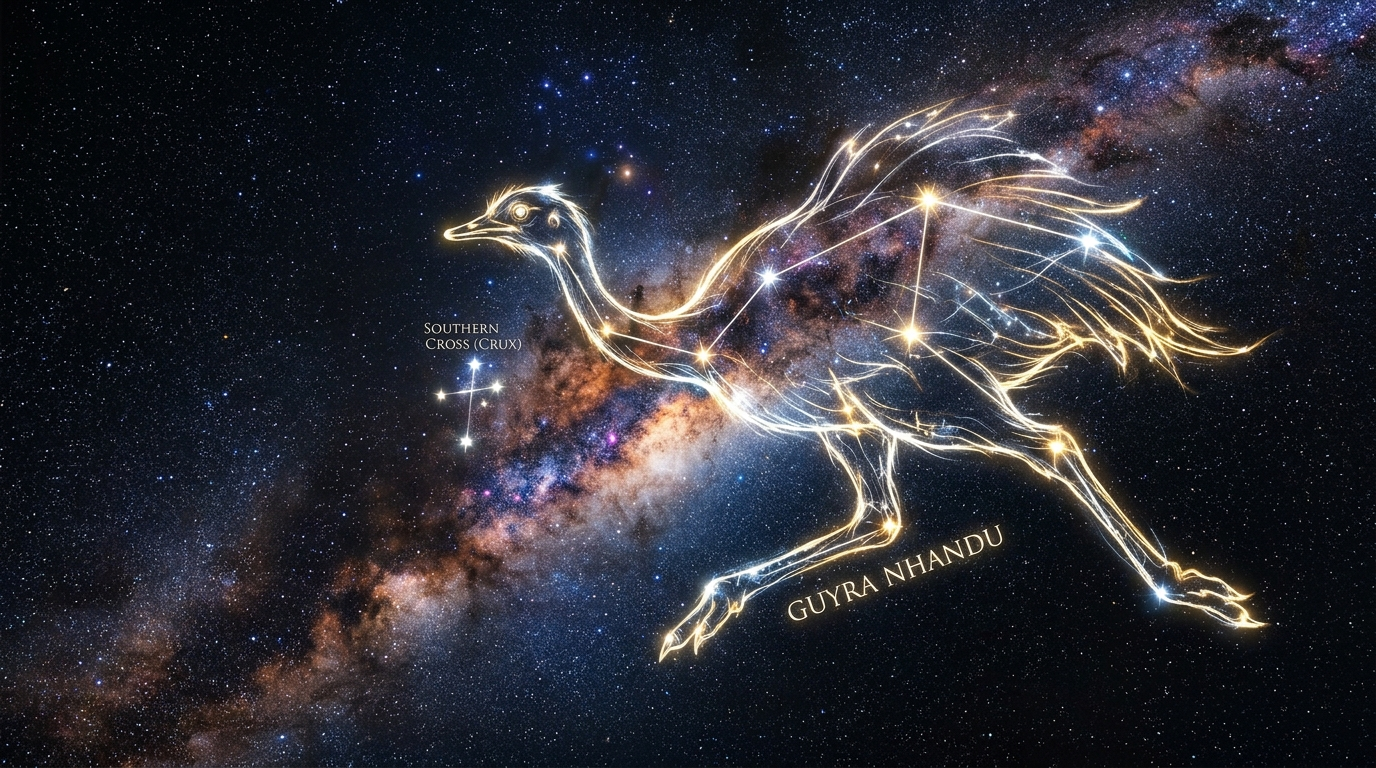
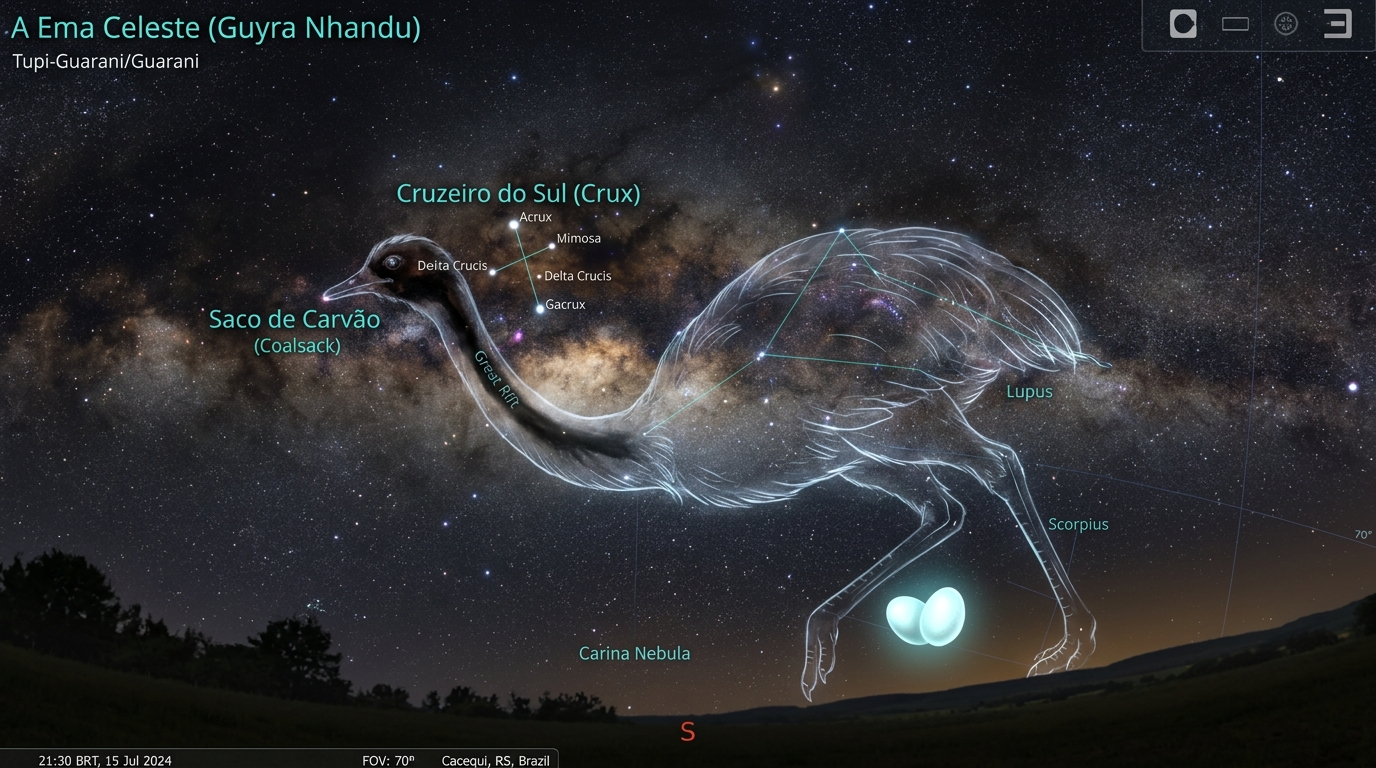
feat: atualiza imagens indigenas do Stellarium e termos do dicionario (Cruzeiro do Sul, Aldebara e Tinguasu)

diff --git a/src/services/dicionarioData.ts b/src/services/dicionarioData.ts
@@ -47,7 +47,7 @@ export const DICIONARIO_ASTRONOMICO: TermoDicionarioDTO[] = [
     categoria: 'estrelas',
     categoriaLabel: 'Estrelas Sagradas',
     icone: '🟠',
-    detalhe: 'Estrela gigante laranja avermelhada na região de Touro. Na tradição do Homem Velho (Tuiba\'e), sinaliza a perna decepada vertendo o orvalho e as chuvas da fertilidade.',
+    detalhe: 'Estrela gigante laranja avermelhada na região de Touro.',
     regiaoCeleste: 'Constelação de Touro / Tuiba\'e'
   },
   {
@@ -131,7 +131,7 @@ export const DICIONARIO_ASTRONOMICO: TermoDicionarioDTO[] = [
     categoria: 'constelacoes',
     categoriaLabel: 'Constelações & Figuras',
     icone: '✝',
-    detalhe: 'Constelação do Cruzeiro do Sul. Na etnoastronomia indígena, suas estrelas demarcam a cabeça e bico da Ema Celeste (Guyrá Nhandu).',
+    detalhe: 'Uma das constelações mais famosas e fáceis de reconhecer no céu noturno do Hemisfério Sul.',
     regiaoCeleste: 'Hemisfério Sul Celeste'
   },
   {
@@ -165,9 +165,9 @@ export const DICIONARIO_ASTRONOMICO: TermoDicionarioDTO[] = [
     regiaoCeleste: 'Entre Cruzeiro do Sul e Escorpião'
   },
   {
-    id: 'tingasu',
-    tupi: 'Tingasu',
-    portugues: 'Constelação do Pássaro Tingasu',
+    id: 'tinguasu',
+    tupi: 'Tinguasú',
+    portugues: 'Constelação do Pássaro Tinguasú',
     categoria: 'constelacoes',
     categoriaLabel: 'Constelações & Figuras',
     icone: '🦅',

diff --git a/src/pages/TrilhaPage.tsx b/src/pages/TrilhaPage.tsx
@@ -140,7 +140,7 @@ export const TrilhaPage: React.FC = () => {
 
                   <div className="node-preview-media">
                     <img
-                      src={item.imageUrl || (index === 0 ? '/assets/tuira_orion.jpg' : index === 1 ? '/assets/ema_celeste.jpg' : '/assets/antas_milkyway.jpg')}
+                      src={item.imageUrl || (index === 0 ? '/assets/tuira_orion.jpg' : index === 1 ? '/assets/ema_celeste.jpg' : index === 2 ? '/assets/antas_milkyway.jpg' : '/assets/veado_celeste.jpg')}
                       alt={item.title}
                       style={isLocked ? { filter: 'brightness(0.4) grayscale(0.5)' } : {}}
                     />
@@ -230,7 +230,7 @@ export const TrilhaPage: React.FC = () => {
               Dicionário Cósmico Tupi-Guarani
             </h3>
             <p style={{ color: '#cbd5e1', fontSize: '0.88rem', margin: 0 }}>
-              Consulte 22 termos ancestrais para estrelas, constelações (Tingasu, Tuiba’e), fases da lua e galáxias com áudio e pronúncia.
+              Consulte 22 termos ancestrais para estrelas, constelações (Tinguasú, Tuiba’e), fases da lua e galáxias com áudio e pronúncia.
             </p>
           </div>
         </div>

diff --git a/src/services/mockBackendData.ts b/src/services/mockBackendData.ts
@@ -79,7 +79,7 @@ export const MOCK_CONSTELLATIONS_LIST: ConstellationListItemDTO[] = [
     westernEquivalence: 'Escorpião e Sagitário',
     climateMarker: 'Tempo de renovação da flora e caçadas',
     stepsCount: 3,
-    imageUrl: '/assets/starfield_bg.jpg'
+    imageUrl: '/assets/veado_celeste.jpg'
   }
 ];
 
@@ -202,7 +202,7 @@ export const MOCK_EXERCISE_DATA: ExerciseDTO = {
       leftId: 'veado',
       leftLabel: 'O Veado Celeste (Guará Guasu)',
       leftNative: 'Guará Guasu',
-      leftIcon: '/assets/starfield_bg.jpg',
+      leftIcon: '/assets/veado_celeste.jpg',
       leftAudio: 'Guará Guasu',
       leftTooltip: 'O guardião das matas e dos períodos de estiagem e noites limpas.',
       rightId: 'primavera_renovacao',

diff --git a/src/services/mockDatabase.ts b/src/services/mockDatabase.ts
@@ -76,7 +76,7 @@ export const INITIAL_TRAIL_NODES: Record<string, NoTrilhaDTO> = {
     badges: [
       { icon: '🔒', text: 'Requer Nível 3' }
     ],
-    image: '/assets/starfield_bg.jpg',
+    image: '/assets/veado_celeste.jpg',
     starsEquiv: 'Escorpião e Sagitário'
   }
 };
